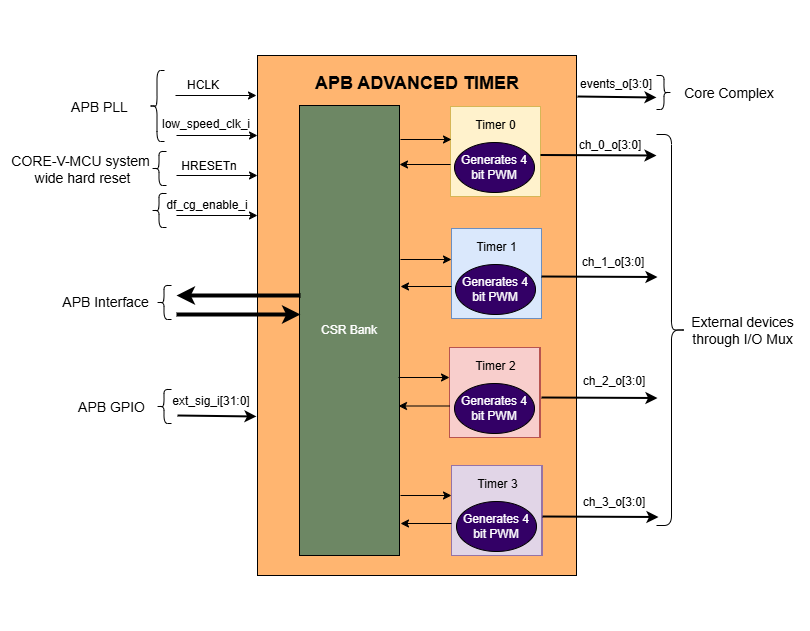
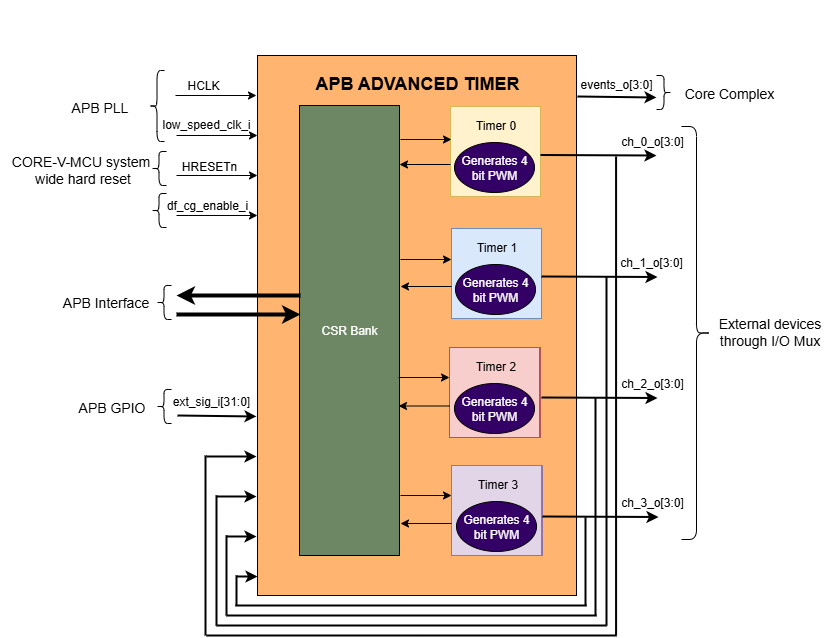
updated the review comments for APB ADVANCED TIMER

Changed region(s): [[0.0, 0.0602, 0.9568, 1.0], [0.8333, 0.4818, 1.0, 0.5721], [0.0926, 0.1506, 0.1543, 0.1807]]

diff --git a/docs/doc-src/ip-blocks/apb_adv_timer.rst b/docs/doc-src/ip-blocks/apb_adv_timer.rst
@@ -51,10 +51,14 @@ APB ADVANCED TIMER supports four 16-bit independent Timers.
 Each 16-bit timer has sub-modules like input stage, prescaler, updown counter and comparators.    
 Each Timer has its own set of CSRs that are used to configure various submodules.
 
-Only single Timer can be configured to generate a 4 bit PWM (or) Two Timers can be configured to generate two 4 bit PWMs parallely (or) 
-Three Timers can be configured to generate three 4 bit PWMs parallely (or) Four Timers can be configured to generate three 4 bit PWMs parallely. 
+APB timers can PWM signals in below combination: -
 
-APB ADVANCED TIMER also generates a 4 bit output event signal to the CPU subsystem which uses a REG_EVENT_CFG CSR which is not related to the Timers.
+- A single timer can generate one 4-bit PWM.
+- Two timers can generate two 4-bit PWMs in parallel.
+- Three timers can generate three 4-bit PWMs in parallel.
+- Four timers can also generate four 4-bit PWMs in parallel.
+
+APB ADVANCED TIMER also generates a 4 bit output event signal to the CPU subsystem which uses a REG_EVENT_CFG CSR.
 
 The figure below is a high-level block diagram of the APB ADVANCED TIMER module:-
 
@@ -108,35 +112,33 @@ The update and reset signals are parsed to all sub modules if any one of the bel
 Input Stage
 ^^^^^^^^^^^
 
-Input stage receives the input (i.e ext_sig_i and PWM output signals of all the 4 timers) and based on CSR configurations, it selects the clock, input pin and operating mode to generate the output event signal.  
-Input stage uses the bitfield INSEL in REG_TIM[0-3]_CFG CSR and selects a signal from a set of signals in ext_sig_i.
-Input stage uses the bitfield CLKSEL in REG_TIM[0-3]_CFG CSR and decides whether the input will be either in sync with the rising edge of the low_speed_clk_i or in sync with the ref clock.
-
+Input stage receives the 48-bit input (i.e 32 bit ext_sig_i from APB GPIO and 4 PWM output signals of the 4 timers each) and based on CSR configurations, it selects the clock, input pin and operating mode to generate the output event signal.  
+it selects the clock, input pin and operating mode to generate the output event signal. Input source is selected based on the value of INSEL bitfied of REG_TIM[0-3]_CFG CSR.
 At every positive edge of the selected clock and selected input signal, Input stage uses the bitfield MODE in REG_TIM[0-3]_CFG CSR to generate output event signal according to the below information:
 
 - If MODE is 3’b000
 
-  - The event is always high
+  - The output event is always high
 
 - If MODE is 3’b001
 
-  - The event is sensitive to the negation of the signal selected
+  - The output event is the negation of the signal selected
 
 - If MODE is 3’b010
 
-  - The output event is sensitive to the input signal selected
+  - The output event is same as the input signal selected
     
 - If MODE is 3’b011
 
-  - The output event is sensitive to the rising edge of the selected signal in sync with the clock.
+  - The output event is high at the rising edge of the selected signal in sync with the clock.
 
 - If MODE is 3’b100
 
-  - The output event is sensitive to the falling edge of the selected signal in sync with the clock.
+  - The output event is high at the falling edge of the selected signal in sync with the clock.
 
 - If MODE is 3’b101
 
-  - The output event is sensitive to both rising edge and falling edge of the selected signal in sync with the clock.
+  - The output event is high at both the rising edge and falling edge of the selected signal in sync with the clock.
 
 - If MODE is 3’b110
 
@@ -148,14 +150,16 @@ At every positive edge of the selected clock and selected input signal, Input st
 
 Prescalar
 ^^^^^^^^^
-Prescaler scales down the high frequency input signal to low frequency output signal by using the prescaler value. 
+The Prescaler module reduces a high-frequency input signal to a lower-frequency output signal based on a user-defined prescaler value.
+The prescaler converts a high frequency input event (event_i) into low frequency output event (event_o) based on below criteria : -
+- When the timer is enabled and an event (event_i) is received from the input-stage module, the prescaler module begins counting clock cycles as specified by the PRESC bitfield in the REG_TIM[0-3]_CFG Control and Status Register (CSR).
+- After the configured number of clock cycles have elapsed, the prescaler generates an output signal (event_o) for the Up-Down counter module.
 
-The PRESC bitfield in the REG_TIM[0-3]_CFG CSR is parsed to Prescaler and the output event signal generated in the previous input stage is scaled based on the PRESC value.
-Prescaler module maintains a internal counter whose initial value is 0. At every positive edge of the clock, counter gets incremented by '1' when event input signal is '1' and Timer is active.
-When the internal counter value matches with the PRESC bitfield output event is set to '1' at positive edge of the clock (the frequency is scaled according to the PRESC CSR value) and the counter is updated to '0'.
-The above process continues and output events are generated.
-
-Both the counter and output event is set to 0. When either the hard reset is triggered or when Timer controller parses the RESET bitfield which is set to '1'.
+The output signal (event_o) is de-asserted under the following conditions:
+- A system reset is received.
+- A reset is issued by the timer controller module.
+- The input-stage module de-asserts the input event signal (i.e., event_i goes low).
+- The timer is disabled by the timer controller.
 
 Updown counter
 ^^^^^^^^^^^^^^
